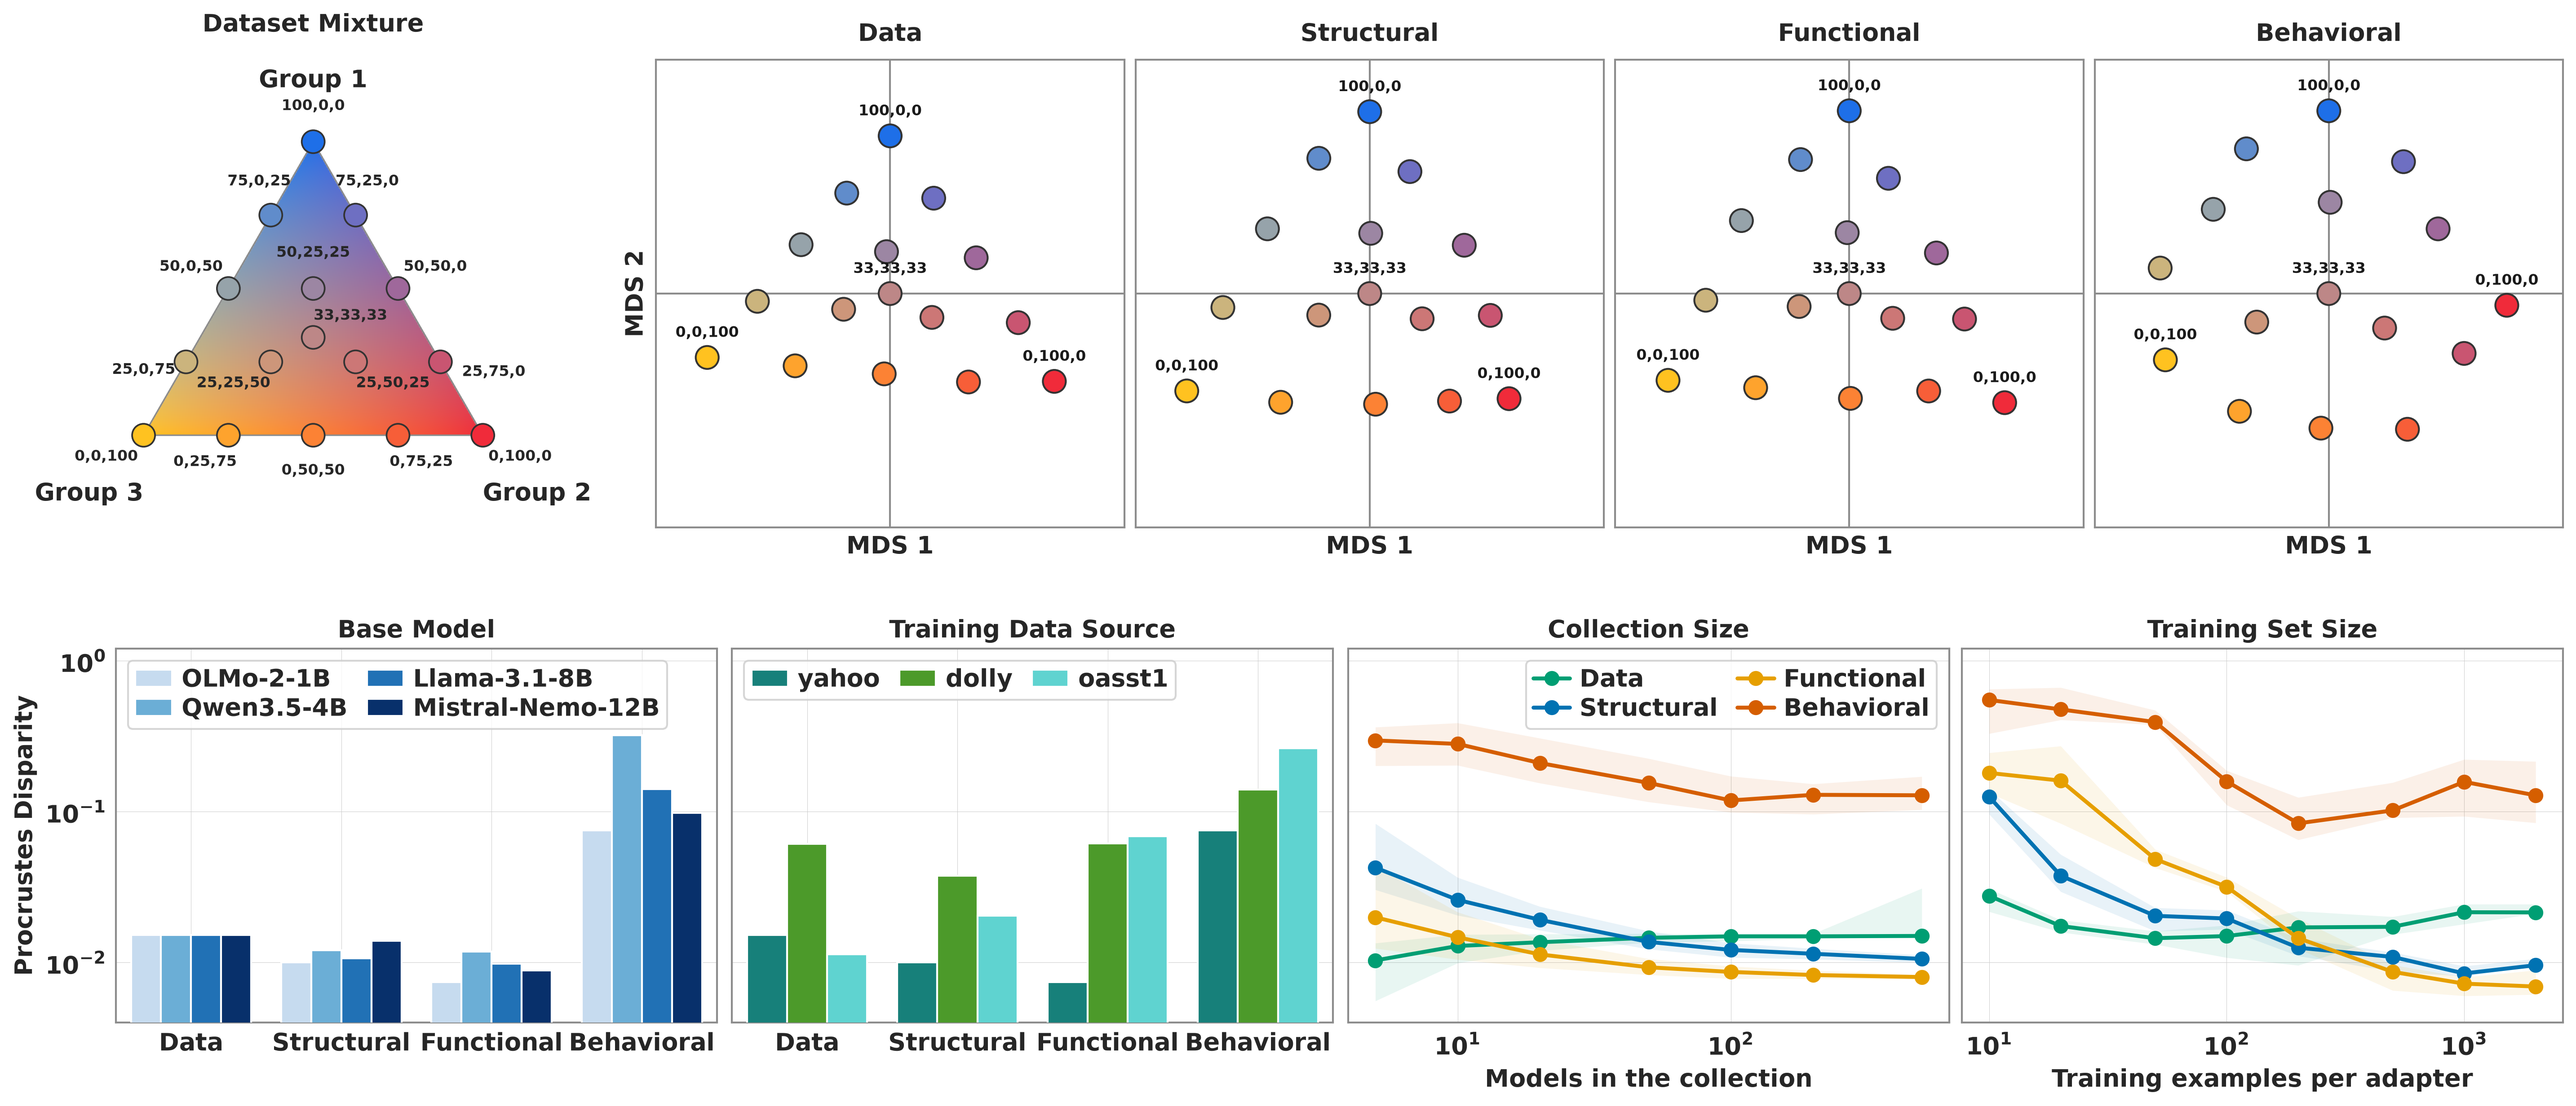
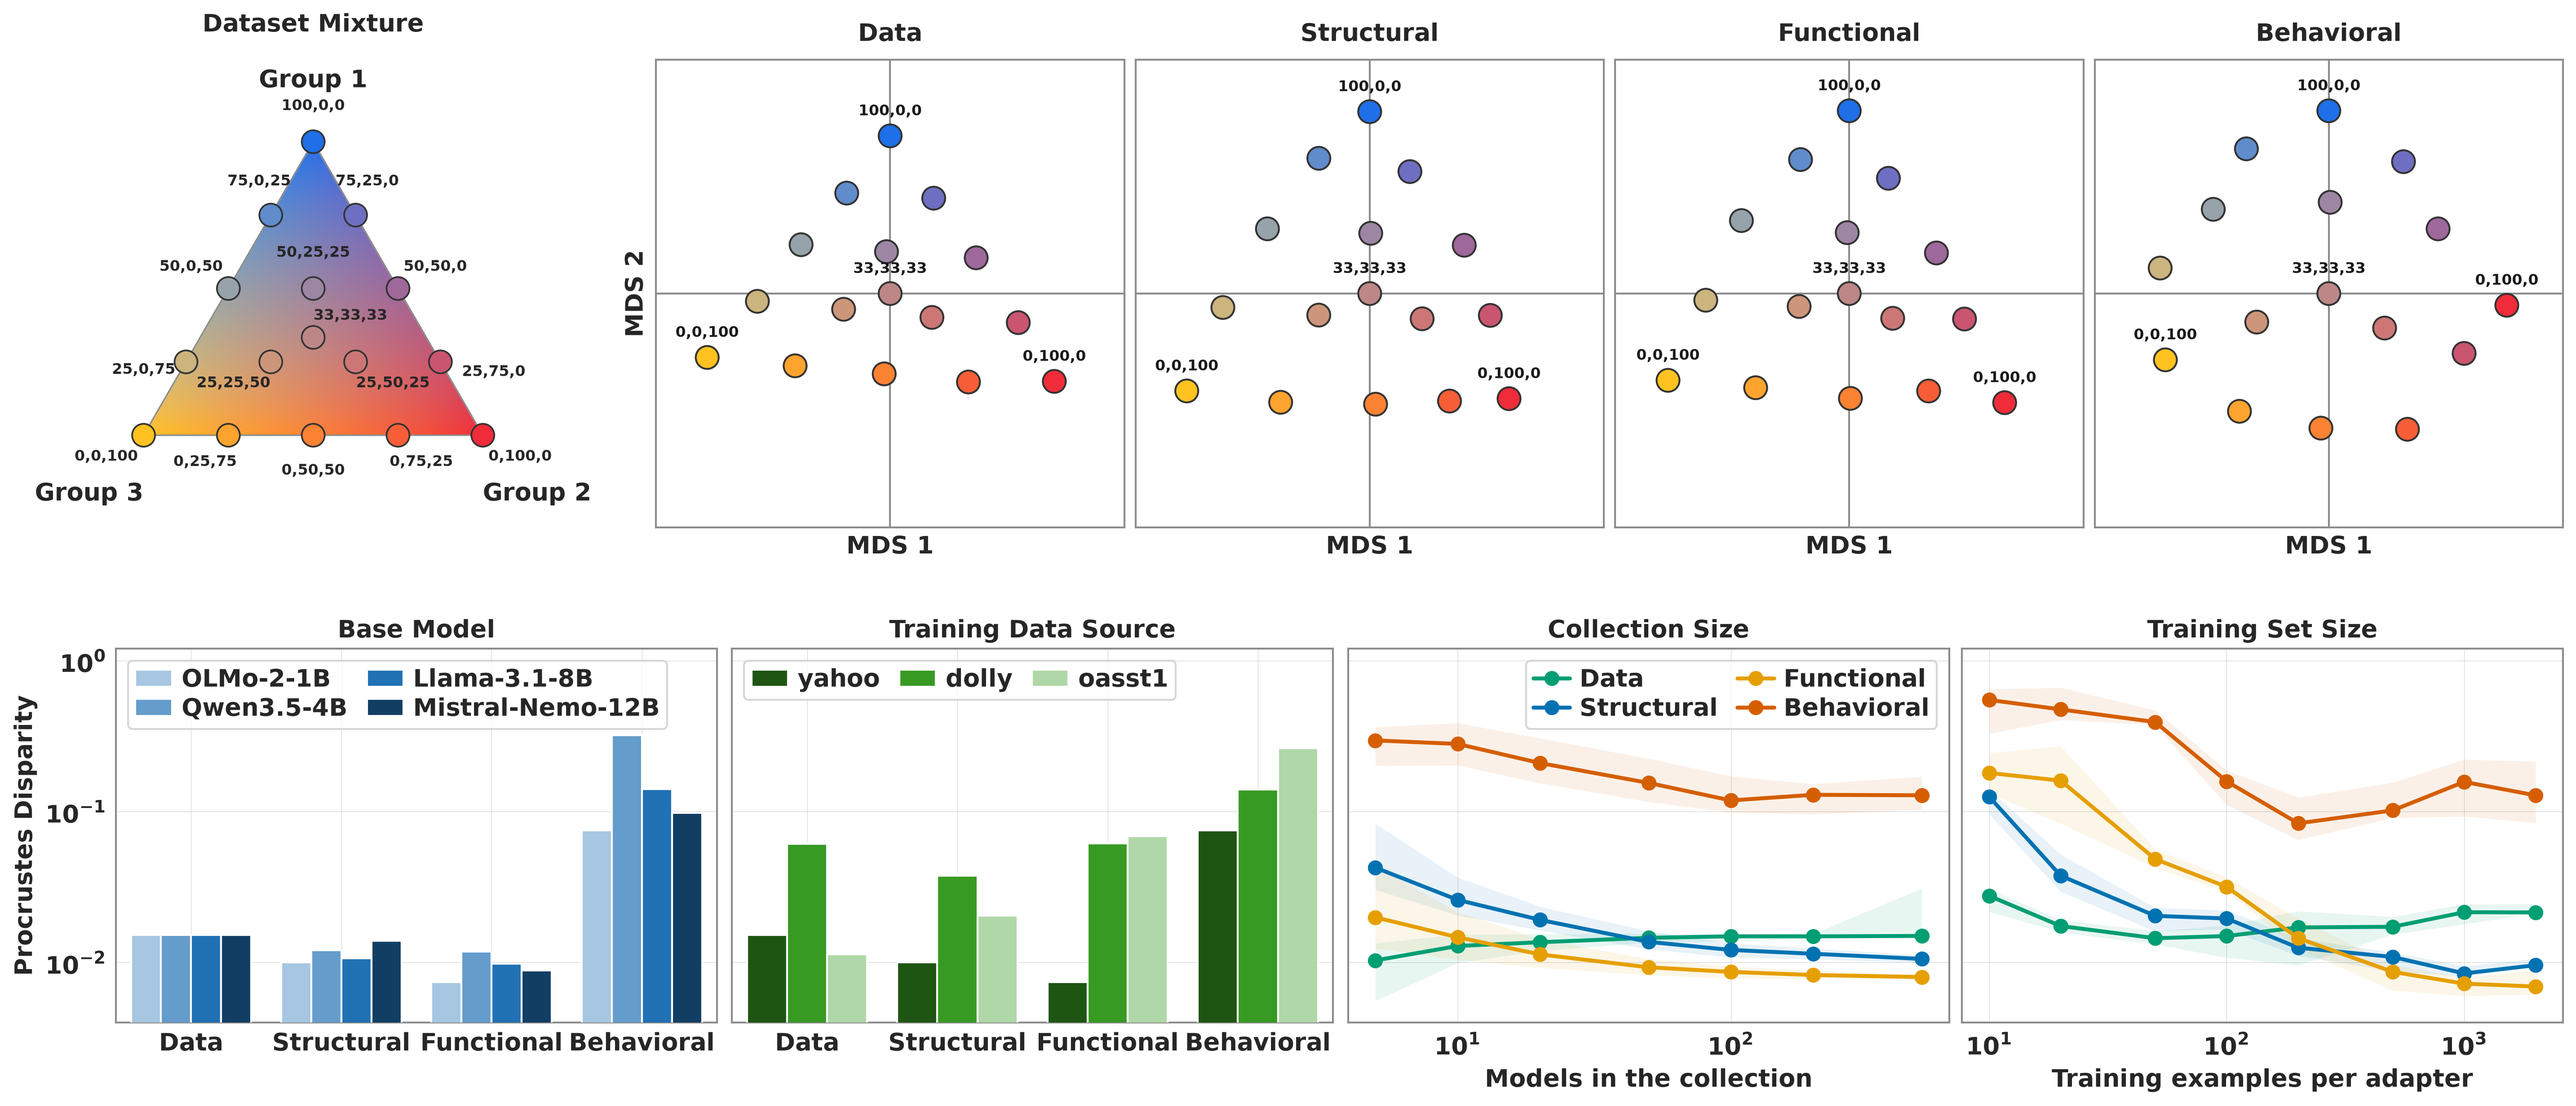
fig: fixes for cache + figure generation

diff --git a/src/plots/simplex_suite.py b/src/plots/simplex_suite.py
@@ -1835,7 +1835,7 @@ def run_suite(*, base_model, draw, outdir, cache_root=None, levels=None,
               no_cache=False, select=None, source=None, n_expected=16,
               crosslevel_only=False, datasets=None, embedder=None,
               dataset_embedder=None, train_draw=None, mixtures=None,
-              closer=True):
+              lora_rank=None, closer=True):
     """Build the figure suite for one run.
 
     This is the old ``main()`` body with the argument parsing lifted out, so the
@@ -1876,6 +1876,15 @@ def run_suite(*, base_model, draw, outdir, cache_root=None, levels=None,
     ``train_draw`` both return all 1020 and only the mixture itself tells them
     apart. Pass ``spec.mixture_pcts`` from the ``DataSimplexSpec`` the figure is
     about. ``None`` keeps every mixture.
+
+    *lora_rank* restricts the scan to adapters trained at one LoRA rank. It is
+    the same kind of guard *train_draw* is, for the fourth axis a rank sweep
+    adds: ``lora_ranks=(1, 2, 4, 8, 16, 32, 64, 128)`` trains the whole simplex
+    at each rank, so one corpus, one base model, one training draw and one
+    mixture grid still return eight adapters per mixture and nothing coarser
+    tells them apart. Pass the rank the figure is about -- 16 for every suite
+    that ran before the sweep, which is ``Suite.lora_rank``'s default. ``None``
+    keeps every rank.
 
     *crosslevel_only* keeps the cross-level closer and drops every other output:
     the per-level grids, the per-metric detail panels, the functional layer sweep
@@ -1971,6 +1980,8 @@ def run_suite(*, base_model, draw, outdir, cache_root=None, levels=None,
     if train_draw is not None:
         n_samples, seed = train_draw
         idx = idx.filter(n_samples=n_samples, seed=seed)
+    if lora_rank is not None:
+        idx = idx.filter(lora_rank=lora_rank)
     if mixtures is not None:
         from src.plots.simplex import raw_mixture_pcts
         wanted = {tuple(m) for m in mixtures}
@@ -1985,6 +1996,8 @@ def run_suite(*, base_model, draw, outdir, cache_root=None, levels=None,
         found = datasets_present(idx)
         draws = sorted({(e.n_samples, e.seed) for e in idx.entries
                         if e.n_samples is not None})
+        ranks = sorted({e.lora_rank for e in idx.entries
+                        if e.lora_rank is not None})
         if len(found) > 1:
             why = ("The cache holds more than one dataset under this base model, "
                    "which is by design -- pass datasets=[...] to say which one "
@@ -1997,6 +2010,14 @@ def run_suite(*, base_model, draw, outdir, cache_root=None, levels=None,
                    f"{draws[:4]}{'...' if len(draws) > 4 else ''}, which is by "
                    f"design -- pass train_draw=(n_samples, seed) to say which "
                    f"one this figure is about.")
+        elif len(ranks) > 1:
+            # The rank-sweep case: one corpus, one base model, one training
+            # draw, the same mixture grid trained at every rank. Named before
+            # the mixture branch below because mixtures=[...] is what that
+            # branch asks for and it cannot separate two ranks of one mixture.
+            why = (f"The cache holds {len(ranks)} LoRA ranks of this corpus "
+                   f"{ranks}, which is by design -- pass lora_rank=r to say "
+                   f"which one this figure is about.")
         elif len(idx.model_ids) > n_expected:
             # One corpus, one base model, one draw, still too many: two mixture
             # grids share all three.  This is the simplex-vs-pool collision, and

diff --git a/figures/figure2/make_figures.py b/figures/figure2/make_figures.py
@@ -197,10 +197,14 @@ LEVEL_COLORS = {
 #: which no reader loses to colour vision, and one hue for the panel says the
 #: four bars in a group differ in degree rather than in kind.
 MODEL_COLORS = {
-    "allenai/OLMo-2-0425-1B-Instruct":      "#C6DBEF",
-    "Qwen/Qwen3.5-4B":                      "#6BAED6",
-    "meta-llama/Llama-3.1-8B-Instruct":     "#2171B5",
-    "mistralai/Mistral-Nemo-Instruct-2407": "#08306B",
+    # "allenai/OLMo-2-0425-1B-Instruct":      "#C6DBEF", # initial colors
+    # "Qwen/Qwen3.5-4B":                      "#6BAED6",
+    # "meta-llama/Llama-3.1-8B-Instruct":     "#2171B5",
+    # "mistralai/Mistral-Nemo-Instruct-2407": "#08306B",
+    "allenai/OLMo-2-0425-1B-Instruct":      "#A6C6E1",
+    "Qwen/Qwen3.5-4B":                      "#649CCB",
+    "meta-llama/Llama-3.1-8B-Instruct":     "#2171B5", # base color + tint
+    "mistralai/Mistral-Nemo-Instruct-2407": "#123E64",
 }
 
 #: Corpus -> colour, in order of increasing distance from a topic mixture:
@@ -208,7 +212,12 @@ MODEL_COLORS = {
 #: Teal, green and turquoise: one neighbourhood of the wheel, like the model
 #: ramp beside it, but three hues at comparable weight rather than a ramp --
 #: nothing orders three corpora, so nothing here should look ordered.
-CORPUS_COLORS = {"yahoo": "#17807A", "dolly": "#4C9A2A", "oasst1": "#5FD3D0"}
+CORPUS_COLORS = {
+    "yahoo" :   "#1E5513",
+    "dolly" :   "#379A22",
+    "oasst1":   "#AFD7A7"
+}
+# {"yahoo": "#17807A", "dolly": "#4C9A2A", "oasst1": "#5FD3D0"}
 
 #: One line style for every level in panels 3-4. Hue alone separates the four
 #: curves; they are far enough apart vertically that a dash pattern per level
@@ -380,6 +389,15 @@ TOP_DRAW = {"recipe_hash": "6149cf8055bac2c1", "n_samples": 100, "seed": 1,
 #: stages read.
 TOP_TRAIN_DRAW = (1000, 0)
 
+#: The LoRA rank the simplex3 adapters were trained at. Not optional, and not a
+#: filter this driver needed when it was written: the rank sweep has since
+#: trained the same 16 mixtures of this corpus at eight ranks under this base
+#: model and this training draw, so a scan filtered only by corpus, draw and
+#: mixture returns 128 models and ``n_expected`` trips. 16 is the rank every
+#: suite that predates the sweep ran at -- ``Suite.lora_rank``'s default -- so
+#: pinning it here is what keeps this panel the same measurement it was.
+TOP_LORA_RANK = 16
+
 #: Decoder layers of :data:`TOP_BASE_MODEL`, from the checkpoint's own config.
 #: The functional reference surrogate names ``N_LAYERS + 1`` rows, so the exact
 #: label the suite must be asked for is derived from this rather than written
@@ -431,6 +449,7 @@ def top_row_cells(levels: list[Level], cache_root=None, no_cache=False):
         datasets=TOP_DATASETS,
         train_draw=TOP_TRAIN_DRAW,
         mixtures=SPECS["yahoo"].mixture_pcts(),
+        lora_rank=TOP_LORA_RANK,
         source="figures/figure2/make_figures.py",
     )
     cells = {}
